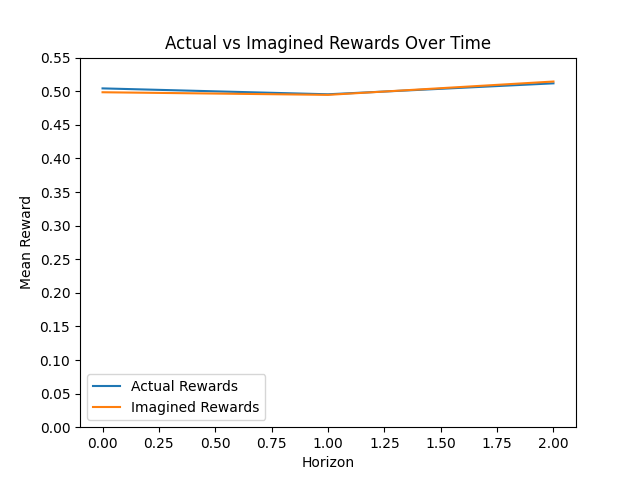
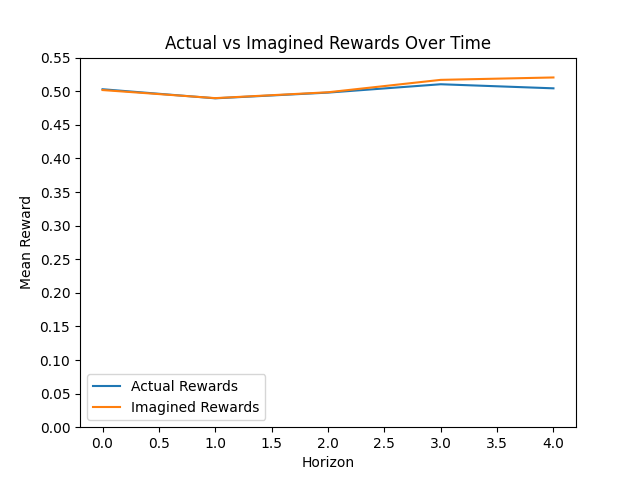
refined solution

diff --git a/tdmpc2/tdmpc2.py b/tdmpc2/tdmpc2.py
@@ -147,50 +147,32 @@ class TDMPC2(torch.nn.Module):
 		action, _ = self.model.pi(z, task)
 		return G + discount * (1-termination) * self.model.Q(z, action, task, return_type='avg')
 
-	@torch.no_grad()
-	def _estimate_error_aware_value(self, z, actions, task):
-
-		penalty = 0.5
-		G, discount = 0, 1
-		termination = torch.zeros(self.cfg.num_samples, 1, dtype=torch.float32, device=z.device)
-		total_error = 0
-		for t in range(self.cfg.horizon):
-			reward = math.two_hot_inv(self.model.reward(z, actions[t], task), self.cfg)
-			z = self.model.next(z, actions[t], task)
-
-			G = G + discount * (1-termination) * reward
-			discount_update = self.discount[torch.tensor(task)] if self.cfg.multitask else self.discount
-			discount = discount * discount_update
-			if self.cfg.episodic:
-				termination = torch.clip(termination + (self.model.termination(z, task) > 0.5).float(), max=1.)
-		action, _ = self.model.pi(z, task)
-		return G + discount * (1-termination) * self.model.Q(z, action, task, return_type='avg')
 
 	@torch.no_grad()
-	def _estimate_uncertainty_aware_value(self, z, actions, task, i, increment):
+	def _estimate_uncertainty_aware_value(self, z, actions, task, increment, un_early_stop, samples, max_h=None):
 		"""Estimate value of a trajectory starting at latent state z and executing given actions."""
 		G, discount = 0, 1
-		termination = torch.zeros(self.cfg.num_samples, 1, dtype=torch.float32, device=z.device)
+		termination = torch.zeros(samples, 1, dtype=torch.float32, device=z.device)
 		sensitivity = 0
-		threshold = 0.45
+		threshold = 1
 		total_sensitivity = 0
 
-
 		for t in range(self.cfg.horizon):
-			noise = torch.randn_like(actions[t]) * 0.5
-			imagined_next_state = self.model.next(z, actions[t], task)
-			imagined_next_state_noisy = self.model.next(z, (actions[t] + noise).clamp(-1, 1), task)
-			sensitivity = torch.norm(imagined_next_state - imagined_next_state_noisy, dim=-1)
-			total_sensitivity += sensitivity
+			if un_early_stop:
+				noise = torch.randn_like(actions[t]) * 0.5
+				imagined_next_state = self.model.next(z, actions[t], task)
+				imagined_next_state_noisy = self.model.next(z, (actions[t] + noise).clamp(-1, 1), task)
 
-			topk_sensitive = torch.topk(-total_sensitivity, self.cfg.num_elites, dim=0).indices
+				sensitivity = torch.norm(imagined_next_state - imagined_next_state_noisy, dim=-1)
+				total_sensitivity += sensitivity
 
-			# try log
-			if total_sensitivity[topk_sensitive].mean().cpu().item() >= (threshold + increment):
-				# print(t+1)
-				break
-			# increment *= increment_decay
+				topk_sensitive = torch.topk(-total_sensitivity, self.cfg.num_elites, dim=0).indices
 
+				# try log
+				if total_sensitivity[topk_sensitive].mean().cpu().item() >= (threshold + increment):
+					# print(t+1)
+					break
+			
 			reward = math.two_hot_inv(self.model.reward(z, actions[t], task), self.cfg)
 			z = self.model.next(z, actions[t], task)
 			G = G + discount * (1-termination) * reward
@@ -198,6 +180,8 @@ class TDMPC2(torch.nn.Module):
 			discount = discount * discount_update
 			if self.cfg.episodic:
 				termination = torch.clip(termination + (self.model.termination(z, task) > 0.5).float(), max=1.)
+			if max_h and t == max_h:
+				break
 		action, _ = self.model.pi(z, task)
 
 		return G + discount * (1-termination) * self.model.Q(z, action, task, return_type='avg'), t # return planned horizon
@@ -228,6 +212,7 @@ class TDMPC2(torch.nn.Module):
 			pi_actions[-1], _ = self.model.pi(_z, task)
 
 		# Initialize state and parameters
+		z_pi = z.repeat(self.cfg.num_pi_trajs, 1)
 		z = z.repeat(self.cfg.num_samples, 1)
 		mean = torch.zeros(self.cfg.horizon, self.cfg.action_dim, device=self.device)
 		std = torch.full((self.cfg.horizon, self.cfg.action_dim), self.cfg.max_std, dtype=torch.float, device=self.device)
@@ -236,9 +221,10 @@ class TDMPC2(torch.nn.Module):
 		actions = torch.empty(self.cfg.horizon, self.cfg.num_samples, self.cfg.action_dim, device=self.device)
 		if self.cfg.num_pi_trajs > 0:
 			actions[:, :self.cfg.num_pi_trajs] = pi_actions
-		weight = 0.3
-		weight_decay = 0.9
+		weight = 0.8 # 0.75
+		weight_decay = 1.5 # 1.5
 		# Iterate MPPI
+		pi_actions = actions[:, :self.cfg.num_pi_trajs]
 		for _ in range(self.cfg.iterations):
 
 			# Sample actions
@@ -252,12 +238,14 @@ class TDMPC2(torch.nn.Module):
 			# Compute elite actions with uncertainty awareness
 			# Issue was we were udpating action distribution of all 15 actions when we might have planned for 2 steps and the value estimate reflected 2 steps.
 			increment = weight * m.log(_+1)
-			value, planned_horizon = self._estimate_uncertainty_aware_value(z, actions, task, _, increment)
+			value, planned_horizon = self._estimate_uncertainty_aware_value(z, actions, task, increment, un_early_stop=True, samples=self.cfg.num_samples)
+			# second planning with only policy
+			max_h = planned_horizon + 3
+			value_pi, _ = self._estimate_uncertainty_aware_value(z_pi, pi_actions, task, increment, un_early_stop=False, samples=self.cfg.num_pi_trajs, max_h=max_h)
 			weight *= weight_decay
-			# planning_dict[planned_horizon] = planning_dict.get(planned_horizon, 0) + 1
-			# if planning_dict[planned_horizon] <= 3 and _ ==self.cfg.iterations-1:
-			# 	planned_horizon -= 1
-				# break
+
+			planning_dict[planned_horizon] = planning_dict.get(planned_horizon, 0) + 1
+		
 			value = value.nan_to_num(0)
 			elite_idxs = torch.topk(value.squeeze(1), self.cfg.num_elites, dim=0).indices
 			elite_value, elite_actions = value[elite_idxs], actions[:planned_horizon, elite_idxs]
@@ -268,7 +256,16 @@ class TDMPC2(torch.nn.Module):
 			score = score / score.sum(0)
 			mean[:planned_horizon] = (score.unsqueeze(0) * elite_actions).sum(dim=1) / (score.sum(0) + 1e-9)
 			std[:planned_horizon] = ((score.unsqueeze(0) * (elite_actions - mean[:planned_horizon].unsqueeze(1)) ** 2).sum(dim=1) / (score.sum(0) + 1e-9)).sqrt()
-			std = std.clamp(self.cfg.min_std, self.cfg.max_std)
+			std[:planned_horizon] = std[:planned_horizon].clamp(self.cfg.min_std, self.cfg.max_std)
+
+			# Update parameters for later horizons
+			max_value_pi = value_pi.max(0).values
+			# print(pi_actions.shape)
+			score_pi = torch.exp(self.cfg.temperature*(value_pi - max_value_pi))
+			score_pi = score_pi / score_pi.sum(0)
+			mean[planned_horizon:planned_horizon + max_h] = (score_pi.unsqueeze(0) * pi_actions[planned_horizon:planned_horizon + max_h]).sum(dim=1) / (score_pi.sum(0) + 1e-9)
+			std[planned_horizon:planned_horizon + max_h] = ((score_pi.unsqueeze(0) * (pi_actions[planned_horizon:planned_horizon + max_h] - mean[planned_horizon:planned_horizon + max_h].unsqueeze(1)) ** 2).sum(dim=1) / (score_pi.sum(0) + 1e-9)).sqrt()
+			std[planned_horizon:planned_horizon + max_h] = std[planned_horizon:planned_horizon + max_h].clamp(self.cfg.min_std, self.cfg.max_std)
 			if self.cfg.multitask:
 				mean = mean * self.model._action_masks[task]
 				std = std * self.model._action_masks[task]
@@ -282,8 +279,27 @@ class TDMPC2(torch.nn.Module):
 			a = a + std * torch.randn(self.cfg.action_dim, device=std.device)
 		self._prev_mean.copy_(mean)
 		# return a.clamp(-1, 1)
+		# print(planning_dict)h
 
-		return actions
+		# convert planning_dict to cumulative counts per horizon
+		sorted_horizon = sorted(planning_dict.keys(), reverse=True)
+		cumulative = 0
+		# print("before", planning_dict)
+		for h in sorted_horizon:
+			cumulative += planning_dict[h]
+			planning_dict[h] = cumulative
+		stable = sorted_horizon[0]
+		for h in sorted_horizon:
+			if planning_dict[h] >= 8:
+				stable = h
+				break
+		# print(sorted_horizon)
+		# print("after", planning_dict)
+		# print(stable)
+
+		# print("----------------")
+		return actions[:stable]
+
 
 	@torch.no_grad()
 	def _plan(self, obs, t0=False, eval_mode=False, task=None):

diff --git a/tdmpc2/evaluate.py b/tdmpc2/evaluate.py
@@ -78,26 +78,27 @@ def evaluate(cfg: dict):
         print("Mean planned errors per step:", errors_per_step.sum(axis=0) / action_counts)
         print("Horizon Counts", action_counts)
         return
+    MAX_ACTIONS = 3
     for task_idx, task in enumerate(tasks):
         if not cfg.multitask:
             task_idx = None
 
         ep_rewards, ep_successes = [], []
         start_time = time.time()
-
+        total_num_actions = []
         for i in range(cfg.eval_episodes):
             obs, done, ep_reward, t = env.reset(task_idx=task_idx), False, 0, 0
 
             if cfg.save_video:
                 frames = [env.render()]
-
+            num_actions = []
             while not done:
                 ### Changed this to log planned errors
                 actions = agent.act(obs, t0=t == 0, task=task_idx, eval_mode=True)
-                # errors = eval_actions(obs, actions, agent, env)
-                # print("Errors during planning:", errors)
+
                 # obs, reward, done, info = env.step(actions[0].clamp(-1,1))
-                for t in range(len(actions)-1):
+                num_actions.append(len(actions))
+                for t in range(1):
                     obs, reward, done, info = env.step(actions[t].clamp(-1,1))
                     ep_reward += reward
                     t += 1
@@ -112,6 +113,7 @@ def evaluate(cfg: dict):
 
             ep_rewards.append(ep_reward)
             ep_successes.append(info['success'])
+            total_num_actions.append(num_actions)
 
             if cfg.save_video:
                 imageio.mimsave(
@@ -119,10 +121,12 @@ def evaluate(cfg: dict):
                     frames,
                     fps=15
                 )
-
+        for i in range(len(total_num_actions)):
+            print(f"Actions: {total_num_actions[i]} ---- Reward: {ep_rewards[i]} ---- Success: {ep_successes[i]}")
         ep_rewards = np.mean(ep_rewards)
         ep_successes = np.mean(ep_successes)
         total_time = time.time() - start_time
+
 
         if cfg.multitask:
             scores.append(ep_successes * 100 if task.startswith('mw-') else ep_rewards / 10)
@@ -156,7 +160,7 @@ def eval_actions(agent, env, cfg, penalty):
             action_counts[t] += 1
 
             # Compute imagined reward before updating state
-            rewards_per_step_imagined[i, t] = math.two_hot_inv(agent.model.reward(z.to(agent.device), a.to(agent.device), task=None), agent.cfg)
+            rewards_per_step_imagined[i, t] = math.two_hot_inv(agent.model.reward(z.to(agent.device), a.clamp(-1, 1).to(agent.device), task=None), agent.cfg)
             
             z = agent.model.next(z.to(agent.device), a.clamp(-1, 1).to(agent.device), task=None)
             
@@ -190,7 +194,8 @@ def plot_rewards(rewards_actual, rewards_imagined, cfg, file_name):
     plt.ylabel('Mean Reward')
     plt.legend()
     ax = plt.gca()
-    ax.set_yticks([0, 0.05, 0.1, 0.15, 0.20, 0.25, 0.30, 0.35, 0.40, 0.45, 0.50, 0.55])
+    # ax.set_yticks([0, 0.05, 0.1, 0.15, 0.20, 0.25, 0.30, 0.35, 0.40, 0.45, 0.50, 0.55])
+    os.makedirs(f'{cfg.error_model_plot_dir}/{cfg.task}/plots/', exist_ok=True)
     plt.savefig(os.path.join(f'{cfg.error_model_plot_dir}/{cfg.task}/plots/', file_name))
     plt.close()
 
